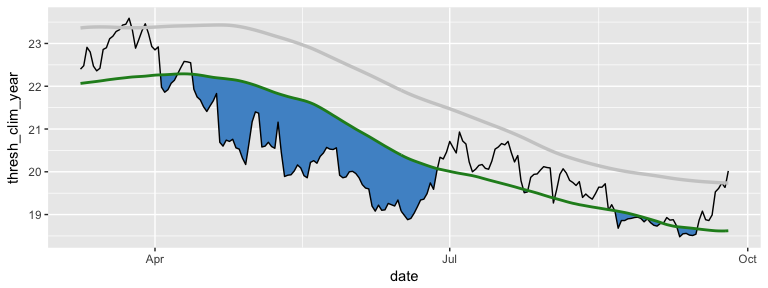
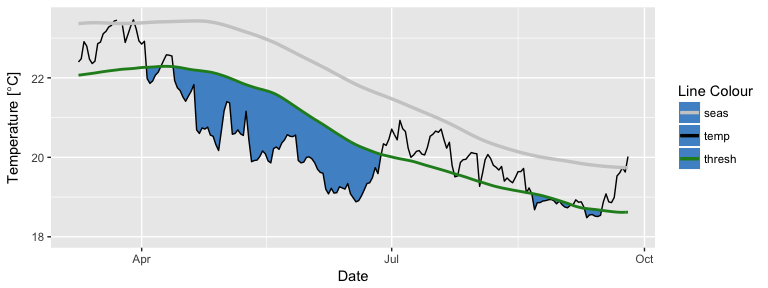
Update README.Rmd and README.md.

diff --git a/README.md b/README.md
@@ -5,7 +5,7 @@ RmarineHeatWaves
 
 The **RmarineHeatWaves** package is a translation of the original Python code written by Eric C. J. Oliver that can be found on [GitHub](https://github.com/ecjoliver/marineHeatWaves).
 
-The **RmarineHeatWaves** R package contains a number of functions which calculate and display marine heat waves according to the definition of Hobday et al. (2016). The marine cold spell option was implemented in version 0.13 (21 Nov 2015) of the Python module as a result of the preparation of Schlegel et al. (in press), wherein the cold events are introduced and briefly discussed.
+The **RmarineHeatWaves** R package contains a number of functions which calculate and display marine heat waves according to the definition of Hobday et al. (2016). The marine cold spell option was implemented in version 0.13 (21 Nov 2015) of the Python module as a result of the preparation of Schlegel et al. (2017), wherein the cold events are introduced and briefly discussed.
 
 This package may be found on [CRAN](https://cran.r-project.org/package=RmarineHeatWaves). Alternatively, you can install it from GitHub by issuing the following command:
 
@@ -147,7 +147,8 @@ ggplot(data = mhw2, aes(x = date)) +
                       values = c("temp" = "black", "thresh" =  "forestgreen", "seas" = "grey80")) +
   scale_fill_manual(name = "Event Colour", values = c("all" = "salmon", "top" = "red")) +
   guides(colour = guide_legend(override.aes = list(fill = NA))) +
-  xlab("Date") + ylab(expression(paste("Temperature [", degree, "C]")))
+  xlab("Date") + 
+  ylab(expression(paste("Temperature [", degree, "C]")))
 ```
 
 ![](README-fig-example4-1.png)
@@ -209,23 +210,26 @@ mcs2 <- mcs$clim
 mcs2 <- mcs2[2990:3190,]
 
 # Note that the plot centres on the polygons, so it may be necessary to manually zoom out a bit
-ggplot(mcs2, aes(x = date, y = thresh_clim_year, y2 = temp)) +
-  geom_flame(fill = "steelblue3") +
-  geom_line(aes(y = temp), colour = "black") +
-  geom_line(aes(y = thresh_clim_year), colour = "forestgreen", size = 1.0) +
-  geom_line(aes(y= seas_clim_year), colour = "grey80", size = 1.2)
+ggplot(data = mcs2, aes(x = date)) +
+  geom_flame(aes(y = thresh_clim_year, y2 = temp), fill = "steelblue3", show.legend = T) +
+  geom_line(aes(y = temp, colour = "temp")) +
+  geom_line(aes(y = thresh_clim_year, colour = "thresh"), size = 1.0) +
+  geom_line(aes(y = seas_clim_year, colour = "seas"), size = 1.2) + 
+  scale_colour_manual(name = "Line Colour", 
+                      values = c("temp" = "black", "thresh" =  "forestgreen", "seas" = "grey80")) +
+  scale_y_continuous(limits = c(18, 23.5)) +
+  xlab("Date") +
+  ylab(expression(paste("Temperature [", degree, "C]")))
 ```
 
 ![](README-fig-example7-1.png)
 
 ``` r
-  scale_y_continuous(limits = c(18, 23.5))
-#> <ScaleContinuousPosition>
-#>  Range:  
-#>  Limits:   18 -- 23.5
-
+  
 ggplot(mcs$event, aes(x = date_start, y = int_cum)) +
-  geom_lolli(colour = "steelblue3", colour.n = "navy", n = 7)
+  geom_lolli(colour = "steelblue3", colour.n = "navy", n = 7) +
+  xlab("Date") + 
+  ylab(expression(paste("Cumulative intensity [days x ", degree, "C]")))
 ```
 
 ![](README-fig-example7-2.png)
